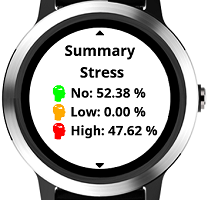
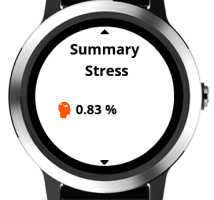
Updated readme and user guide to reflect the new HRV & Stress tracking features; How to use - update in progress

diff --git a/UserGuide.md b/UserGuide.md
@@ -1,8 +1,9 @@
 # User Guide
 
 ## Features
-- ability to save the session as a Connect IQ activity (optional)
-    - save as **Meditating** or **Yoga**
+
+- ability to save the session as a Connect IQ activity
+    - activity type **Meditating** or **Yoga**
 - ability to configure multiple meditation/yoga sessions
     - e.g. a 20 min session with 1 min recurring alerts, triggering a different alert on the 10th minute
     - each session supports interval vibration alerts
@@ -11,15 +12,18 @@
     - RMSSD - Root Mean Square of Successive Differences (beat-to-beat intervals)
     - pNN20 - % of successive beat-to-beat intervals that differ by more than 20 ms
     - pNN50 - % of successive beat-to-beat intervals that differ by more than 50 ms
-    - HRV Successive Beats - difference between current and previous beat-to-beat intervals
-    - SDRR - this approximates current HR to beat-to-beat intervals to calculate [Standard Deviation](https://en.wikipedia.org/wiki/Standard_deviation) of the first and last 5 min of the session
+    - beat-to-beat interval - reading coming directly from the watch sensor
+    - HRV Successive Differences - difference between current and previous beat-to-beat intervals
+    - SDRR - [Standard Deviation](https://en.wikipedia.org/wiki/Standard_deviation) of beat-to-beat intervals 
+      - calculated of the first and last 5 min of the session
+    - HRV RMSSD 30 Sec Window - RMSSD calculated for consecutive 30 second intervals    
+    - HR from heartbeat - beat-to-beat interval converted to HR
 - stress tracking
-    - analyses in overlapping 10 Sec Windows Max-Min beat-to-beat intervals (reported as Max-Min HRV 10 Sec Window chart on Connect IQ)
-    - tracks the median of the Max-Min HRV windows as a summary field (Stress Median field on Connect IQ)
-    - calculates stress into 3 cathegories - **No**, **Low** and **High**
-        - No - % of Max-Min Windows that are <= **stress median**
-        - Low - % of Max-Min Windows that are > **stress median** and < 3x **stress median**
-        - High - % of Max-Min Windows that are >= 3x **stress median**
+    - Stress - summary of the the average stress during the session 
+    - HR Peaks 10 Sec Window
+      - internal metric for calculating stress 
+      - tracks in overlapping 10 Sec Windows Max HR for each window 
+      - HR calculated from beat-to-beat interval
 - summary stats at the end of the session
     - tracks the overall min, avg and max HR
     - Stress
@@ -55,7 +59,11 @@ The meditation session finishes once you press the stop button.
 
 1.4. If you are in single session mode (the default) at the end you see the Summary Screen (for Multi-Session mode see the next section **1.5**). Swipe up/down (Vivoactive 3) or press page up/down buttons to see the summary stats of HR, Stress and HRV. Go back from this view to exit the app.
 
-  ![Summary HR](userGuideScreenshots/summaryHr.png)![Summary Stress](userGuideScreenshots/summaryStress.png) ![Summary stress median](userGuideScreenshots/summaryStressMedian.png) ![Summary HRV](userGuideScreenshots/summaryHrvSdrr.png)
+![Summary HR](userGuideScreenshots/summaryHr.png)
+![Summary stress](userGuideScreenshots/summaryStress.png)
+![Summary HRV RMSSD](userGuideScreenshots/summaryHrvRmssd.png)
+![Summary HRV pNNx](userGuideScreenshots/summaryHrvPnnx.png)
+![Summary HRV SDRR](userGuideScreenshots/summaryHrvSdrr.png)
 
 1.5 If you are in multi-session mode (determined by [Global Settings](#4-global-settings) -> [Multi-Session](#44-multi-session)) then you go back to the session picker screen. From there you can start another session. Once you finished your session you can go back from the session picker screen to enter the Sessions Summary view.
 
@@ -105,39 +113,46 @@ On this screen you can see the applicable settings for the selected session
 ![Session picker yoga explained](userGuideScreenshots/sessionPickerYogaExplained.png)
 
 ### 4. Global Settings
+
 From the session picker screen hold the menu button (for Vivoactive 3 hold on the screen) until you see the Session settings menu. Select the Global Settings Menu. You see a view with the states of the global settings.
 
 ![Global settings](userGuideScreenshots/globalSettings.png)
 
 To change the settings hold the menu button (for Vivoactive 3 hold on the screen) until you see the Global Settings menu. There you can select the setting you want to change.
 
-#### 4.1 Stress Tracking
-
-- On - tracks summary stress metrics into tree categories: No, Low and High stress
-- On Detailed - tracks additionally stress median and Max-Min HR Windows Graph
-- Off - no stress tracking
-
-#### 4.2 HRV Tracking
+#### 4.1 HRV Tracking
 
 - On 
-  - tracks the standard deviation HRV of the first and last 5 min intervals of the session
-  - produces beat-to-beat intervals graph in ConnectIQ when activity is saved
-- Off - no HRV tracking
+  - tracks default HRV metrics and Stress
+    - RMSSD
+    - Successive Differences
+    - Stress
+- On Detailed - metrics of On plus those bellow
+    - beat-to-beat interval
+    - pNN50
+    - pNN20
+    - HR from heartbeat
+    - RMSSD 30 Sec Window
+    - HR Peaks 10 Sec Window
+    - SDRR First 5 min of the session
+    - SDRR Last 5 min of the session
+- Off - HRV and Stress tracking turned off
 
-#### 4.3 Confirm Save
+#### 4.2 Confirm Save
 
 - Ask - when an activity finihes asks for confirmation whether to save the activity
 - Auto Yes - when an activity finihes auto saves it
 - Auto No - when an activity finihes auto discards it
 
-#### 4.4 Multi-Session
+#### 4.3 Multi-Session
 
 - Yes 
   - the app continues to run after finishing session
   - this allows you to record multiple sessions
 - No - the app exits after finishing session
 
-#### 4.5 New Activity Type
+#### 4.4 New Activity Type
+
 You can set the default activity type for new sessions.
 
 - Meditating

diff --git a/README.md b/README.md
@@ -3,8 +3,9 @@
 A Garmin Connect IQ meditation app that tracks as an activity the heart rate, HRV, stress and provides vibration alerts.
 
 ## Features
-- ability to save the session as a Connect IQ activity (optional)
-    - save as **Meditating** or **Yoga**
+
+- ability to save the session as a Connect IQ activity
+    - activity type **Meditating** or **Yoga**
 - ability to configure multiple meditation/yoga sessions
     - e.g. a 20 min session with 1 min recurring alerts, triggering a different alert on the 10th minute
     - each session supports interval vibration alerts
@@ -13,24 +14,29 @@ A Garmin Connect IQ meditation app that tracks as an activity the heart rate, HR
     - RMSSD - Root Mean Square of Successive Differences (beat-to-beat intervals)
     - pNN20 - % of successive beat-to-beat intervals that differ by more than 20 ms
     - pNN50 - % of successive beat-to-beat intervals that differ by more than 50 ms
-    - HRV Successive Beats - difference between current and previous beat-to-beat intervals
-    - SDRR - this approximates current HR to beat-to-beat intervals to calculate [Standard Deviation](https://en.wikipedia.org/wiki/Standard_deviation) of the first and last 5 min of the session
+    - beat-to-beat interval - reading coming directly from the watch sensor
+    - HRV Successive Differences - difference between current and previous beat-to-beat intervals
+    - SDRR - [Standard Deviation](https://en.wikipedia.org/wiki/Standard_deviation) of beat-to-beat intervals
+      - calculated  of the first and last 5 min of the session
+    - HRV RMSSD 30 Sec Window - RMSSD calculated for consecutive 30 second intervals    
+    - HR from heartbeat - beat-to-beat interval converted to HR
 - stress tracking
-    - analyses in overlapping 10 Sec Windows Max-Min beat-to-beat intervals (reported as Max-Min HRV 10 Sec Window chart on Connect IQ)
-    - tracks the median of the Max-Min HRV windows as a summary field (Stress Median field on Connect IQ)
-    - calculates stress into 3 cathegories - **No**, **Low** and **High**
-        - No - % of Max-Min Windows that are <= **stress median**
-        - Low - % of Max-Min Windows that are > **stress median** and < 3x **stress median**
-        - High - % of Max-Min Windows that are >= 3x **stress median**
+    - Stress - summary of the the average stress during the session 
+    - HR Peaks 10 Sec Window
+      - internal metric for calculating stress 
+      - tracks in overlapping 10 Sec Windows Max HR for each window 
+      - HR calculated from beat-to-beat interval.
 - summary stats at the end of the session
     - tracks the overall min, avg and max HR
     - Stress
     - HRV
 
-![Session picker yoga explained](userGuideScreenshots/sessionPicker.png)
+![Session picker yoga](userGuideScreenshots/sessionPicker.png)
 ![Session in-progress explained](userGuideScreenshots/sessionInProgressExplained.png)
 ![Summary stress](userGuideScreenshots/summaryStress.png)
-![Summary HRV](userGuideScreenshots/summaryHrvSdrr.png)
+![Summary HRV RMSSD](userGuideScreenshots/summaryHrvRmssd.png)
+![Summary HRV pNNx](userGuideScreenshots/summaryHrvPnnx.png)
+![Summary HRV SDRR](userGuideScreenshots/summaryHrvSdrr.png)
 
 ## Supported Devices
 - Vivoactive 3, Vivoactive 3 Music 
